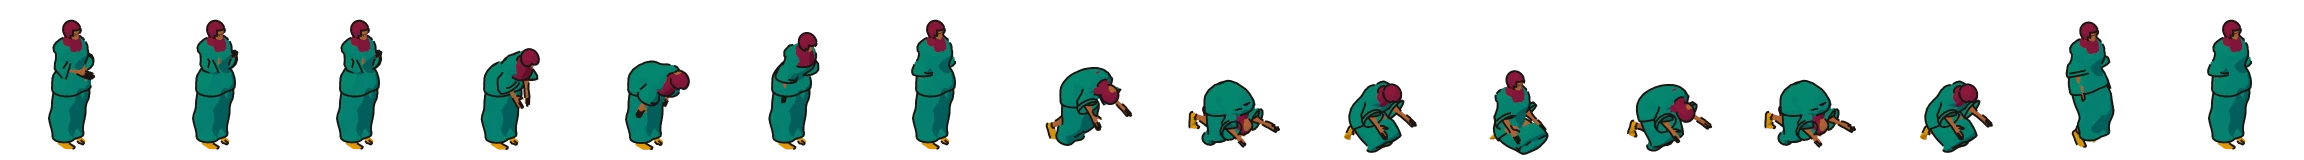
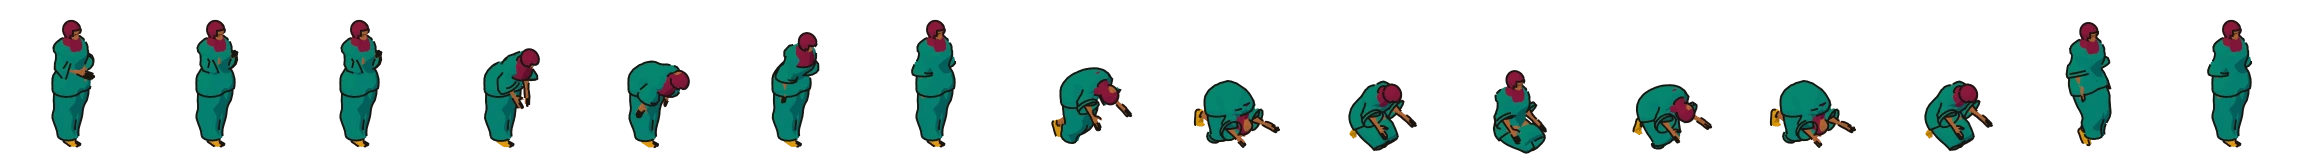
fix(mosque): space between the imam, the men's row and the women's row; women pray with legs together
- rooms.ts: the imam alone in front of the mihrab, a row's depth of open floor, the men's row
  (with the player's pray spot), another gap, and the women's row at the back; all in step,
  facing the mihrab. Walkway runs through the gap behind the men.
- sprites.py: LEGS_TOGETHER=1 turns the thighs in so feet and knees stay together; the women's
  pray_salah sheets (9 looks) re-rendered with it, same 144x160, 16 frames, se/sw/nw.

diff --git a/apps/web/src/components/rooms.ts b/apps/web/src/components/rooms.ts
@@ -186,22 +186,23 @@ export const ROOMS: Record<string, Room> = {
     spots: { door: { at: [0.52, 0.62], dir: "sw" }, dance: { at: [0.36, 0.66], dir: "se" }, sit: { at: [0.62, 0.62], dir: "sw" }, stand: { at: [0.4, 0.58], dir: "se" } },
   },
   mosque: {
-    // Congregational prayer: the imam on the mat in front of the mihrab, the rows behind him (men, then women),
-    // all facing the mihrab (nw) and moving through the rak'ah together.
-    walkway: [[0.3, 0.7], [0.45, 0.78], [0.6, 0.82], [0.72, 0.72], [0.6, 0.62]],
+    // Congregational prayer, all facing the mihrab (nw) and moving through the rak'ah together: the imam alone in
+    // front, a row's depth of open floor, the men's row, another gap, and the women's row at the back.
+    walkway: [[0.45, 0.88], [0.485, 0.83], [0.615, 0.765], [0.745, 0.7], [0.74, 0.62]],
     walkers: 0,
     stations: [
-      { action: "pray_salah", at: [0.37, 0.58], dir: "nw", variant: "man-agbada_white", phase: 0 },
-      { action: "pray_salah", at: [0.395, 0.673], dir: "nw", variant: "man_kaftan", phase: 0 },
-      { action: "pray_salah", at: [0.525, 0.607], dir: "nw", variant: "man-tee_blue", phase: 0 },
-      { action: "pray_salah", at: [0.485, 0.74], dir: "nw", variant: "woman-buba_wrapper", phase: 0 },
-      { action: "pray_salah", at: [0.615, 0.673], dir: "nw", variant: "woman-kaftan_gold", phase: 0 },
+      { action: "pray_salah", at: [0.36, 0.585], dir: "nw", variant: "man-agbada_white", phase: 0 },
+      { action: "pray_salah", at: [0.465, 0.738], dir: "nw", variant: "man_kaftan", phase: 0 },
+      { action: "pray_salah", at: [0.595, 0.672], dir: "nw", variant: "man-tee_blue", phase: 0 },
+      { action: "pray_salah", at: [0.635, 0.858], dir: "nw", variant: "woman-buba_wrapper", phase: 0 },
+      { action: "pray_salah", at: [0.765, 0.792], dir: "nw", variant: "woman-kaftan_gold", phase: 0 },
     ],
     spots: {
-      door: { at: [0.6, 0.82], dir: "se" },
-      pray: { at: [0.655, 0.54], dir: "nw", pose: "pray_salah" },
-      sit: { at: [0.655, 0.54], dir: "nw", pose: "pray_salah" },
-      stand: { at: [0.72, 0.72], dir: "sw" },
+      door: { at: [0.45, 0.88], dir: "se" },
+      // in the men's row, next to the two already there
+      pray: { at: [0.725, 0.606], dir: "nw", pose: "pray_salah" },
+      sit: { at: [0.725, 0.606], dir: "nw", pose: "pray_salah" },
+      stand: { at: [0.28, 0.72], dir: "se" },
     },
   },
   "car-showroom": {

diff --git a/apps/web/scripts/blender/agent/sprites.py b/apps/web/scripts/blender/agent/sprites.py
@@ -896,6 +896,10 @@ def apply_pose(arm, q, sway=0.0):
     turn(arm, "spine_02", "X", q["sp2"])
     turn(arm, "spine_01", "X", q["sp1"])
     turn(arm, "spine_02", "Y", q["side"] + sway)
+    # LEGS_TOGETHER=1 (the women's salah sheets): thighs turned in so the knees and feet stay together
+    legs_in = float(os.environ.get("LEGS_TOGETHER_DEG", "6.5")) if os.environ.get("LEGS_TOGETHER") else 0.0
+    for s, sg in (("l", 1), ("r", -1)):
+        turn(arm, f"thigh_{s}", "Y", sg * legs_in)
     for s in "lr":
         turn(arm, f"thigh_{s}", "X", -q["hip"])
         turn(arm, f"calf_{s}", "X", q["knee"])
